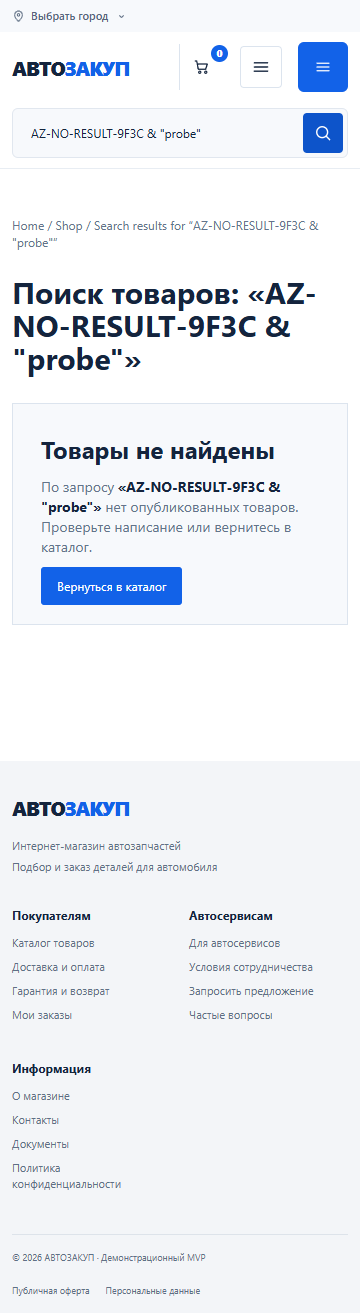
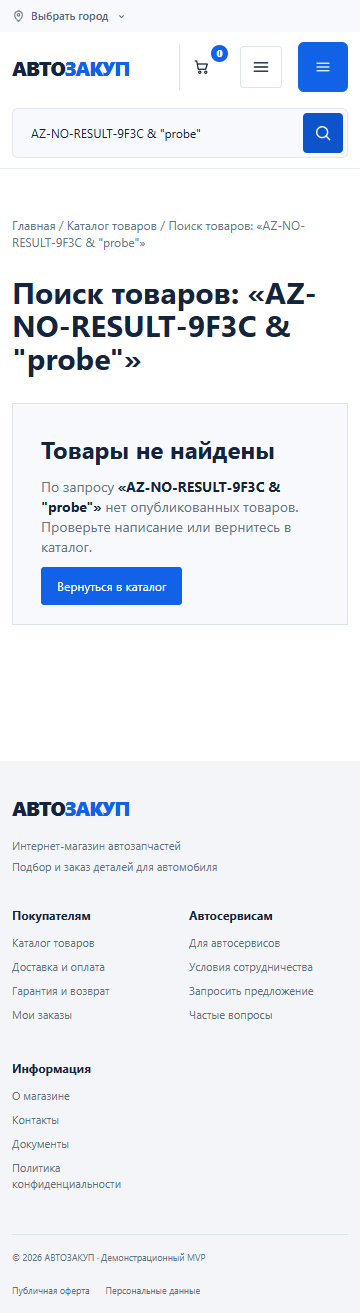
Localize scoped Woo breadcrumbs

Changed region(s): [[0.0306, 0.1561, 0.825, 0.1874], [0.8556, 0.1561, 0.8861, 0.1874]]

diff --git a/tests/e2e/catalog.spec.ts b/tests/e2e/catalog.spec.ts
@@ -30,6 +30,12 @@ test('opens the dynamic catalog and a published WooCommerce category', async ({ 
   await page.goto(shopUrl!, { waitUntil: 'networkidle' });
   await expect(page.getByRole('heading', { level: 1, name: 'Каталог товаров' })).toBeVisible();
 
+  const shopBreadcrumb = page.locator('.woocommerce-breadcrumb');
+  await expect(shopBreadcrumb).toHaveText(/^\s*Главная\s*\/\s*Каталог товаров\s*$/);
+  const shopHomeUrl = await shopBreadcrumb.getByRole('link', { name: 'Главная' }).getAttribute('href');
+  expect(shopHomeUrl).toBeTruthy();
+  expect(new URL(shopHomeUrl!, page.url()).pathname).toBe('/');
+
   const resultCount = page.locator('[data-shop-product-count]');
   await expect(resultCount).toHaveCount(1);
   await expect(resultCount).toHaveText(/^Товаров в каталоге: \d+$/);
@@ -88,7 +94,10 @@ test('opens the dynamic catalog and a published WooCommerce category', async ({ 
   await page.waitForLoadState('networkidle');
 
   await expect(page).toHaveURL(/\/product-category\//);
-  await expect(page.locator('.woocommerce-breadcrumb')).toContainText('Тормозная система');
+  const categoryBreadcrumb = page.locator('.woocommerce-breadcrumb');
+  await expect(categoryBreadcrumb).toContainText('Главная');
+  await expect(categoryBreadcrumb).toContainText('Тормозная система');
+  await expect(categoryBreadcrumb).not.toContainText(/\bHome\b/);
   await expect(page.getByRole('heading', { level: 1, name: 'Тормозная система' })).toBeVisible();
   await expect(page.locator('[data-shop-product-count]')).toHaveCount(0);
   await expect(page.locator('.woocommerce-result-count')).toHaveCount(1);
@@ -176,7 +185,10 @@ test('keeps the marked demo PDP technical and relation-safe', async ({ page }, t
   const title = page.locator('h1.product_title');
   await expect(title).toHaveCount(1);
   await expect(title).toHaveText(expectedName);
-  await expect(page.locator('.woocommerce-breadcrumb')).toContainText(expectedName);
+  const productBreadcrumb = page.locator('.woocommerce-breadcrumb');
+  await expect(productBreadcrumb).toContainText('Главная');
+  await expect(productBreadcrumb).toContainText(expectedName);
+  await expect(productBreadcrumb).not.toContainText(/\bHome\b/);
 
   const productImage = page.locator('.woocommerce-product-gallery img').first();
   await expect(productImage).toBeVisible();

diff --git a/tests/e2e/search.spec.ts b/tests/e2e/search.spec.ts
@@ -39,6 +39,16 @@ test('shows a truthful product-search empty state', async ({ page }, testInfo) =
   await expect(page.locator('main h1').first()).toContainText(`Поиск товаров: «${query}»`);
   await expect(page.getByRole('searchbox', { name: 'Поиск товаров' })).toHaveValue(query);
 
+  const breadcrumb = page.locator('.woocommerce-breadcrumb');
+  await expect(breadcrumb).toContainText('Главная');
+  await expect(breadcrumb).toContainText('Каталог товаров');
+  await expect(breadcrumb).toContainText(`Поиск товаров: «${query}»`);
+  await expect(breadcrumb).not.toContainText(/Home|Shop|Search results/);
+  const breadcrumbHomeUrl = await breadcrumb.getByRole('link', { name: 'Главная' }).getAttribute('href');
+  const breadcrumbShopUrl = await breadcrumb.getByRole('link', { name: 'Каталог товаров' }).getAttribute('href');
+  expect(new URL(breadcrumbHomeUrl!, page.url()).pathname).toBe('/');
+  expect(new URL(breadcrumbShopUrl!, page.url()).pathname).toBe('/shop/');
+
   const emptyState = page.locator('[data-product-search-empty]');
   await expect(emptyState).toHaveCount(1);
   await expect(emptyState.getByRole('heading', { name: 'Товары не найдены' })).toBeVisible();
@@ -90,6 +100,11 @@ test('keeps generic product-search results scoped and explicit', async ({ page }
   expect(resultUrl.searchParams.get('s')).toBe(query);
   await expect(page.locator('main h1').first()).toContainText(`Поиск товаров: «${query}»`);
   await expect(page.getByRole('searchbox', { name: 'Поиск товаров' })).toHaveValue(query);
+  const breadcrumb = page.locator('.woocommerce-breadcrumb');
+  await expect(breadcrumb).toContainText('Главная');
+  await expect(breadcrumb).toContainText('Каталог товаров');
+  await expect(breadcrumb).toContainText(`Поиск товаров: «${query}»`);
+  await expect(breadcrumb).not.toContainText(/Home|Shop|Search results/);
   await expect(page.locator('[data-product-search-empty]')).toHaveCount(0);
   await expect(page.locator('.az-shop-categories')).toHaveCount(0);
   await expect(page.locator('.woocommerce-ordering')).toHaveCount(0);

diff --git a/wp-content/themes/avtozakup/functions.php b/wp-content/themes/avtozakup/functions.php
@@ -195,6 +195,81 @@ function avtozakup_is_catalog_shop_request(): bool {
 	return function_exists( 'is_shop' ) && is_shop() && ! is_search();
 }
 
+function avtozakup_product_search_label(): string {
+	$query = sanitize_text_field( get_search_query( false ) );
+	return sprintf( 'Поиск товаров: «%s»', $query );
+}
+
+function avtozakup_valid_shop_breadcrumb_url(): ?string {
+	if ( ! function_exists( 'wc_get_page_id' ) ) {
+		return null;
+	}
+
+	$shop_page_id = (int) wc_get_page_id( 'shop' );
+	$front_page_id = absint( get_option( 'page_on_front' ) );
+	if (
+		$shop_page_id <= 0
+		|| $shop_page_id === $front_page_id
+		|| 'page' !== get_post_type( $shop_page_id )
+		|| 'publish' !== get_post_status( $shop_page_id )
+	) {
+		return null;
+	}
+
+	$shop_url = get_permalink( $shop_page_id );
+	if ( ! is_string( $shop_url ) || '' === $shop_url ) {
+		return null;
+	}
+
+	return untrailingslashit( $shop_url ) === untrailingslashit( home_url( '/' ) ) ? null : $shop_url;
+}
+
+function avtozakup_woocommerce_breadcrumb_defaults( array $defaults ): array {
+	$defaults['home'] = 'Главная';
+	return $defaults;
+}
+
+function avtozakup_woocommerce_breadcrumb_trail( array $crumbs ): array {
+	$shop_url = avtozakup_valid_shop_breadcrumb_url();
+	if ( null !== $shop_url ) {
+		$normalized_shop_url = untrailingslashit( $shop_url );
+		foreach ( $crumbs as $index => $crumb ) {
+			if ( ! is_array( $crumb ) ) {
+				continue;
+			}
+			$crumb_url = isset( $crumb[1] ) && is_string( $crumb[1] ) ? $crumb[1] : '';
+			if (
+				isset( $crumb[0] )
+				&& is_string( $crumb[0] )
+				&& '' !== $crumb_url
+				&& untrailingslashit( $crumb_url ) === $normalized_shop_url
+			) {
+				$crumbs[ $index ][0] = 'Каталог товаров';
+			}
+		}
+	}
+
+	if ( avtozakup_is_product_search_request() && ! is_paged() && count( $crumbs ) >= 2 ) {
+		$last_index = array_key_last( $crumbs );
+		$last_crumb = null !== $last_index && isset( $crumbs[ $last_index ] ) ? $crumbs[ $last_index ] : null;
+		$expected_search_url = remove_query_arg( 'paged' );
+		if (
+			is_array( $last_crumb )
+			&& isset( $last_crumb[0] )
+			&& is_string( $last_crumb[0] )
+			&& array_key_exists( 1, $last_crumb )
+			&& is_string( $last_crumb[1] )
+			&& is_string( $expected_search_url )
+			&& '' !== $expected_search_url
+			&& $expected_search_url === $last_crumb[1]
+		) {
+			$crumbs[ $last_index ][0] = avtozakup_product_search_label();
+		}
+	}
+
+	return $crumbs;
+}
+
 function avtozakup_woocommerce_page_title( string $title ): string {
 	if ( avtozakup_is_catalog_shop_request() ) {
 		return 'Каталог товаров';
@@ -204,8 +279,7 @@ function avtozakup_woocommerce_page_title( string $title ): string {
 		return $title;
 	}
 
-	$query = sanitize_text_field( get_search_query( false ) );
-	return sprintf( 'Поиск товаров: «%s»', esc_html( $query ) );
+	return esc_html( avtozakup_product_search_label() );
 }
 
 function avtozakup_render_product_search_result_count(): void {
@@ -275,6 +349,8 @@ add_filter( 'woocommerce_product_add_to_cart_text', 'avtozakup_demo_loop_add_to_
 add_filter( 'woocommerce_product_description_tab_title', 'avtozakup_product_description_label' );
 add_filter( 'woocommerce_product_description_heading', 'avtozakup_product_description_label' );
 add_filter( 'woocommerce_page_title', 'avtozakup_woocommerce_page_title' );
+add_filter( 'woocommerce_breadcrumb_defaults', 'avtozakup_woocommerce_breadcrumb_defaults' );
+add_filter( 'woocommerce_get_breadcrumb', 'avtozakup_woocommerce_breadcrumb_trail' );
 
 add_action(
 	'woocommerce_before_shop_loop',

diff --git a/docs/implementation/progress.md b/docs/implementation/progress.md
@@ -17,7 +17,7 @@
 | Demo provenance Woo | marked products явно подписаны на category/search cards и PDP; PDP показывает whitelisted Paper source, unknown raw meta не публикуется | реальные sources/freshness/offers только после DEC/интеграционных контрактов | `DONE / PROVISIONAL` для `I2-S3`; `PBL-011/FR-CAT-002/FR-OFR-002 partial` |
 | Technical demo PDP | exact seed SKU назван техническим, availability не выдаёт численный stock, action ведёт в демо-корзину, default related скрыт у marked demo | полный SCR-009, verified identifiers/relations/fitment/offers после DEC и контрактов | `DONE / PROVISIONAL` для `I2-S4`; `FR-CAT-002/003 partial` |
 | Product search baseline | neutral generic form; escaped query context/no-results; positive `Фильтр` → `2` product cards; shop category grid исключён; post-only/mixed scopes fail closed | field index/ranking/normalization/suggestions, generic mixed-search UX и утверждённый DG-001/018 | `DONE / PROVISIONAL` для `I2-S5/S6/S10`; `PBL-002/006/012` остаются blocked |
-| Scoped Woo public copy | shop H1/total, search count, demo loop action и PDP description labels локализованы named hooks; shop/search ordering UI снят до ranking contract | breadcrumb/full Woo/admin/account/cart/checkout translation; ranking/query | `DONE / PROVISIONAL` для `I2-S7/S9`; не полный i18n |
+| Scoped Woo public copy | shop H1/total, product-search count, breadcrumb, demo actions и PDP description labels локализованы named hooks; shop/search ordering UI снят до ranking contract | full Woo/admin/account/cart/checkout translation; ranking/query; SEO policy | `DONE / PROVISIONAL` для `I2-S7/S9/S12`; не полный i18n |
 | User-owned product isolation | authenticated temporary unmarked product сохраняет user SKU/stock/action/content и не получает demo UI; force-delete cleanup подтверждён | production master/RBAC/stock/lifecycle | `DONE / TECHNICAL` для `I2-S8`; не business acceptance |
 | E2E target/write safety | explicit safe `BASE_URL`; admin writes только с credential pair + `E2E_ALLOW_ADMIN_WRITES=1`; preflight `6 passed` | remote ownership/production authorization и RBAC | `DONE / TECHNICAL` для `I2-S11`; admin suite не production smoke |
 | Demo safety | AJAX add, badge, cart page, classic disabled checkout и direct Store API 403 прошли; demo маркировка сохранена | production commerce остаётся blocked до DEC | `DONE` для demo safety Итерации 1 |
@@ -27,7 +27,7 @@
 | Backup/restore | парный DB+uploads backup проверен; isolated restore drill прошёл | production retention и scheduled recovery drill | `DONE` для локального drill |
 | Git deployment | ff-only/pre-backup/smoke script подготовлен, но Git remote и серверный target не подтверждены | создать/подтвердить remote, branch и staging/server access | `BLOCKED`; не DEPLOYED |
 | Server | доступ и диагностика не подтверждены | inventory existing sites/proxy/ports/volumes | `BLOCKED / NOT_DEPLOYED` |
-| E2E/a11y/visual | текущий Playwright: `32` tests, `30 passed`, `2 intentional skipped`, `0 failed`; catalog/search/PDP journeys на `1440/390/360` + desktop user-owned isolation | утверждение visual baseline после DEC-019/020 | Iteration 1 и I2-S1/S3/S4/S5/S6/S7/S8/S9/S10/S11 technical acceptance PASS; `DESIGN_REVIEW_REQUIRED` |
+| E2E/a11y/visual | текущий Playwright: `32` tests, `30 passed`, `2 intentional skipped`, `0 failed`; catalog/search/PDP journeys на `1440/390/360` + desktop user-owned isolation | утверждение visual baseline после DEC-019/020 | Iteration 1 и I2-S1/S3/S4/S5/S6/S7/S8/S9/S10/S11/S12 technical acceptance PASS; `DESIGN_REVIEW_REQUIRED` |
 
 ## Известные блокеры
 
@@ -51,6 +51,7 @@
 - Generic product special-character no-results → escaped H1/searchbox/status, no product cards, configured `/shop/` return, axe/no-overflow/runtime на `1440/390/360` — `PASS`.
 - Generic `Фильтр` results → two fixture product cards with provenance/permalinks, no shop category grid, axe/no-overflow/runtime на `1440/390/360` — `PASS`.
 - Canonical shop → local total `10`, no ordering UI; category retains standard ordering, cards/URLs + axe/no-overflow/runtime на `1440/390/360` — `PASS`.
+- Woo breadcrumb → «Главная», configured shop «Каталог товаров», exact product-search label; category/product/page names и URLs preserved — `PASS`.
 - Post-only/mixed crafted search scopes → no product/shop presentation leakage, params preserved, no-overflow/runtime на `1440/390/360` — `PASS`.
 - Authenticated temporary unmarked product → no demo loop/PDP semantics, exact user SKU/stock/content, force-delete cleanup; post-full inventory `10/0` — `PASS`.
 - Runtime: WordPress `7.1.4`, WooCommerce `11.2.1`, PHP `8.3.36`, MariaDB `11.4.13`.

diff --git a/docs/implementation/acceptance-status.md b/docs/implementation/acceptance-status.md
@@ -5,7 +5,7 @@
 
 **Приёмочный прогон Итерации 1:** `13` tests = `11 passed`, `2 intentional skipped`, `0 failed`.
 
-**Текущий regression после I2-S11:** `32` tests = `30 passed`, `2 intentional skipped`, `0 failed`; desktop `1440`, mobile `390`, mobile `360`, отдельный serial desktop admin project. Два skip — ожидаемые mobile-копии viewport-независимого Store API guard.
+**Текущий regression после I2-S12:** `32` tests = `30 passed`, `2 intentional skipped`, `0 failed`; desktop `1440`, mobile `390`, mobile `360`, отдельный serial desktop admin project. Два skip — ожидаемые mobile-копии viewport-независимого Store API guard.
 
 ## Технические критерии Итерации 2
 
@@ -136,6 +136,19 @@ I2-S10 закрывает только fail-closed presentation scope. Generic/m
 | I2-S11-ACC-005 | Regression и cleanup не ухудшены | full `32`: `30 passed`, `2 intentional skipped`; post-full inventory `10/0` | `PASS` |
 
 I2-S11 закрывает только test-harness target/write safety. Opt-in не доказывает remote ownership, не разрешает production writes и не закрывает RBAC/`TC-037`.
+
+### I2-S12 — scoped Woo breadcrumb copy
+
+| ID | Критерий | Доказательство | Статус |
+|---|---|---|---|
+| I2-S12-ACC-001 | Known breadcrumb copy локализован | shop = «Главная / Каталог товаров»; category/PDP home localized; exact product search uses local label | `PASS` |
+| I2-S12-ACC-002 | URLs/data trail сохранены | home `/`, shop `/shop/`; category/product labels unchanged; no query/order mutation | `PASS` |
+| I2-S12-ACC-003 | Escaping однократно | `AZ-NO-RESULT-9F3C & "probe"` в browser text совпадает literally; Woo template выполняет `esc_html` | `PASS` |
+| I2-S12-ACC-004 | Fail-closed guards работают | shop sentinel `-1` → `null`; paged search keeps `Page 2`; mixed/post-only has no product label; malformed crumb shapes guarded | `PASS` |
+| I2-S12-ACC-005 | Responsive/a11y/runtime и visual не ухудшены | catalog/search `18 passed` на `1440/390/360`; existing axe/no-overflow/runtime; `15` screenshots updated/reviewed | `PASS` |
+| I2-S12-ACC-006 | Regression не ухудшен | full `32`: `30 passed`, `2 intentional skipped`, `0 failed` | `PASS` |
+
+I2-S12 закрывает только scoped public breadcrumb copy. JSON-LD names следуют тем же labels, но URLs/order не меняются; full i18n, SEO/canonical и visual approval остаются open.
 
 ## Технические критерии Итерации 1
 

diff --git a/docs/implementation/iterations.md b/docs/implementation/iterations.md
@@ -421,6 +421,33 @@ Qualifier: это prevention-срез; одноразовая локальная
 
 Статус закрывает только test-harness target/write safety. Он не разрешает mutating E2E на production и не закрывает RBAC/security acceptance.
 
+### I2-S12 — scoped Woo breadcrumb copy
+
+**Статус:** `DONE / PROVISIONAL`
+
+**Связь:** `PBL-010/011/012/PBL-040 presentation partial`; business semantics, query и SEO не меняются.
+
+Критерии среза:
+
+- `woocommerce_breadcrumb_defaults` меняет только home label на «Главная»;
+- shop label меняется только по exact permalink валидной published configured shop page, не совпадающей с front page;
+- strict non-paged product search меняет только current crumb с exact Woo request URL на «Поиск товаров: «query»»;
+- query передаётся к Woo template без premature escaping; template выполняет `esc_html` один раз;
+- missing shop sentinel, pagination, malformed third-party crumbs и mixed/post-only search fail closed; category/product/page labels не меняются;
+- breadcrumb URLs/order/delimiter и query не меняются; named filters не используют `gettext`, template override или CSS hiding.
+
+Вне scope: full Woo/admin/account/cart/checkout localization, canonical/robots/sitemap/SEO policy, pagination translation и approved visual design.
+
+Выполнено и проверено:
+
+- installed Woo 11.2.1 hook/template contract сверен; visual breadcrumb и JSON-LD используют один filtered trail, URLs сохранены;
+- shop/category/PDP/positive + special-character product search проходят на `1440/390/360`; mixed/post-only product label не получают;
+- in-memory controls: Woo shop sentinel `-1` → `null`; paged product-search trail сохраняет `Page 2`;
+- targeted catalog/search/PDP: `18 passed`; PHP lint `PASS`; `15` screenshots обновлены, representative desktop/mobile просмотрены;
+- full regression: `32` tests, `30 passed`, `2 intentional skipped`, `0 failed`.
+
+Статус закрывает только scoped public breadcrumb copy. JSON-LD names следуют тем же labels намеренно; full localization, SEO/canonical и design approval остаются open.
+
 ## Следующие итерации
 
 | Итерация-кандидат | Scope по исходному backlog | Gate |

diff --git a/docs/implementation/decision-log.md b/docs/implementation/decision-log.md
@@ -24,6 +24,7 @@
 | TECH-018 | 2026-11-01 | Canonical shop показывает local total и не показывает ordering UI до ranking contract | Named hooks меняют только presentation при `is_shop() && !is_search()`; query/default order/data не изменяются, category/search изолированы | принято для I2-S9; ranking и design open |
 | TECH-019 | 2026-11-01 | Custom product-search presentation включается только для exact product scope; post-only и mixed scopes fail closed | Исключает ложные product-specific count/empty/catalog semantics на crafted generic search URL, не меняя WordPress query и не проектируя generic search | принято для I2-S10; generic search UX remains outside scope |
 | TECH-020 | 2026-11-02 | Playwright не имеет implicit target; root URL обязателен; mutating admin E2E требует credential pair + `E2E_ALLOW_ADMIN_WRITES=1` | Предотвращает случайный browser/admin write против default, sibling root или чужого target; partial config падает до HTTP без supplied values; admin failure artifacts отключены | принято для I2-S11; opt-in не доказывает remote ownership и не production smoke |
+| TECH-021 | 2026-11-02 | Woo breadcrumb copy локализуется named filters: home default, exact valid shop URL, exact non-paged product-search request URL | Не меняет trail order/URLs/query/data; raw `-1` shop sentinel, paged `Page N` и third-party crumb shapes fail closed; Woo template сам экранирует label | принято для I2-S12; JSON-LD names follow labels intentionally, full i18n/SEO open |
 
 ## Состояние DEC
 

diff --git a/docs/implementation/requirements-map.md b/docs/implementation/requirements-map.md
@@ -50,6 +50,7 @@
 | I2-S9 — truthful canonical shop controls | SCR-005; PBL-010/012 presentation/ranking safety partial | scoped shop predicate; Woo loop total; named count renderer; ordering UI removed without query mutation | catalog `3 passed`; local total `10`; category isolation; axe/no-overflow/runtime + 3 screenshots; full `27 passed / 2 skipped` | `DONE / PROVISIONAL`; ranking/query/data/design remain open |
 | I2-S10 — fail-closed product-search scope | PBL-002/012 regression safety partial; no new business scope | post-only + mixed post-type crafted URLs; exact-product/shop presentation exclusion; params preserved | `3 passed` on `1440/390/360`; no overflow/runtime; full `30 passed / 2 skipped` | `DONE / TECHNICAL`; generic/mixed search UX, index/ranking/design remain open |
 | I2-S11 — Playwright target/admin-write preflight | PBL-036/PBL-040 technical test safety partial; no production behavior | explicit safe root `BASE_URL`; indivisible credential+write opt-in; public-only skip path; value-free preflight errors; admin artifacts off | preflight unit `6 passed`; missing/partial/subpath exit `1`; base-only admin `4 skipped`; full triplet discovers `32`; full `30 passed / 2 skipped` | `DONE / TECHNICAL`; remote ownership, RBAC and production authorization remain open |
+| I2-S12 — scoped Woo breadcrumb copy | PBL-010/011/012/PBL-040 presentation partial; no SEO/query/data change | home default; exact valid shop URL; exact non-paged product-search current URL; sentinel/pagination/crumb-shape guards | catalog/search `18 passed` on `1440/390/360`; sentinel/paged in-memory controls; 15 screenshots; full `30 passed / 2 skipped` | `DONE / PROVISIONAL`; full i18n, SEO/canonical and design remain open |
 
 ## Статусы исходного backlog
 

diff --git a/docs/implementation/component-registry.md b/docs/implementation/component-registry.md
@@ -16,6 +16,7 @@
 | Benefits row | SCR-002 | `front-page.php` | static presentation copy | normal | reusable card pattern; `TESTING` |
 | Category card/grid | UI-SCR002-012; SCR-005 | shared `helpers.php`, homepage и shop hook | Woo category | populated + CRUD/render/cleanup; reused on configured shop page | I2-S1 `PASS / PROVISIONAL`; master taxonomy TBD |
 | Catalog archive controls | SCR-005; PBL-010/012 partial | named Woo hooks in `functions.php` | Woo loop total | canonical shop: local total count, no ordering UI; search/category scopes isolated | I2-S9 `PASS / PROVISIONAL`; ranking/query/design open |
+| Woo breadcrumb | SCR-005/006/009; PBL-010/011/012 partial | named Woo breadcrumb filters | configured shop URL + exact product-search request | «Главная», «Каталог товаров», product-search label; category/product/page crumbs preserved | I2-S12 `PASS / PROVISIONAL`; full i18n/SEO/design open |
 | Product card/row | UI-SCR002-013—015 | `helpers.php`, Woo filters | WC product | demo/real label, in/out stock; standard Woo direct-add loop имеет explicit demo action; CRUD/render проверен | I2-S3/S7 `PASS / PROVISIONAL`; business meaning `BLOCKED` |
 | Product detail technical baseline | SCR-009 partial | Woo hooks/filters, no template override | WC product + demo marker | provenance, technical SKU, unconfirmed availability, demo action, description labels; related suppressed for demo; unmarked isolation E2E | I2-S3/S4/S7/S8 `PASS / PROVISIONAL`; full PDP `BLOCKED` |
 | VIN entry block | UI-SCR002-016 | `front-page.php` | no persistence | partial input + status, no submit | SCR-004 later; `BLOCKED` |

diff --git a/README.md b/README.md
@@ -22,7 +22,7 @@
 - technical demo PDP baseline: явная provenance, fail-closed technical SKU, unconfirmed availability и отсутствие неподтверждённых related products;
 - provisional generic product search: escaped results/no-results context и canonical возврат в каталог; field index/article/brand/ranking не заявлены;
 - fail-closed search scope: post-only и mixed post types не получают product-search presentation;
-- scoped public Woo copy: shop H1/count, search count, demo actions и PDP description labels; unapproved ordering UI снят только на shop/search, полная локализация остаётся отдельной задачей;
+- scoped public Woo copy: shop H1/count, product-search count, breadcrumbs, demo actions и PDP description labels; unapproved ordering UI снят только на shop/search, полная локализация остаётся отдельной задачей;
 - E2E isolation: временный unmarked Woo product не получает demo presentation; `finally` cleanup и отсутствие temporary SKU проверяются;
 - локальный и production Compose, Caddy с CIDR-ограничением админки, именованные volumes;
 - backup/restore связанного комплекта MariaDB + `uploads`;
